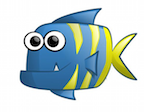
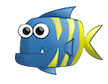
Changes
Need to be able to change the size of fish and turn the user fish into
a sprite so I can deal with collisions.

diff --git a/ScoringTheGame/Graphics/Fish.io_Classes.py b/ScoringTheGame/Graphics/Fish.io_Classes.py
@@ -22,14 +22,15 @@ done = False
 clock = pygame.time.Clock()
 
 pygame.mouse.set_visible(False)
-
-minnow = pygame.image.load("Minnow.png")
+#SmallFish = pygame.sprite.Sprite
+SmallFish = pygame.image.load("SmallFish.png")
 #user = pygame.image.load("SmallFish.png")
 #user.set_colorkey(WHITE)
-minnow.set_colorkey(WHITE)
+SmallFish.set_colorkey(WHITE)
 
 
-
+aPlankton = pygame.image.load("Plankton.png")
+aPlankton.set_colorkey(WHITE)
 
 #background = pygame.image.load("GameBackground.png")
 background = pygame.image.load("SeaBackground.png")
@@ -40,12 +41,10 @@ background = pygame.image.load("SeaBackground.png")
 
 
 def spawnPlankton(Fish):
-    aFish = Fish
-    print len(aFish.list)
-    for item in range(len(aFish.list)):
-        screen.blit(aFish.image, aFish.list[item])
-    if minnow == aFish.list[item]:
-        spawnPlankton(aFish)
+    for item in range(len(Fish.list)):
+        screen.blit(Fish.image, Fish.list[item])
+    if SmallFish == Fish.list[item]:
+        spawnPlankton(Fish)
 
 
 
@@ -85,6 +84,9 @@ while not done:
         if event.type == pygame.QUIT: # If user clicked close
             done = True # Flag that we are done so we exit this loop
 
+        #elif pygame.sprite.collide_rect(SmallFish, Fish):
+            #done = True
+
         elif event.type == pygame.KEYDOWN:
             print("User pressed a key.")
         elif event.type == pygame.KEYUP:
@@ -94,6 +96,7 @@ while not done:
             pygame.mixer.init
             pygame.mixer.music.load('laser5.ogg')
             pygame.mixer.music.play()
+
 
     screen.fill(WHITE)
 
@@ -107,20 +110,21 @@ while not done:
     y = player_position[1]
 
     # Copy image to screen:
-    #screen.blit(minnow, [x-50, y-25])
-    screen.blit(minnow, [x-50, y-25])
+    #screen.blit(SmallFish, [x-50, y-25])
+    screen.blit(SmallFish, [x-50, y-25])
 
 
 
-    #pygame.transform.smoothscale(minnow,(25,25))
+    #pygame.transform.smoothscale(SmallFish,(25,25))
 
-    #spawnPlankton(Fish.plankton)
+    spawnPlankton(Fish.plankton)
 
 
     fishMoveRight(Fish.rightPiranha)
     fishMoveLeft(Fish.leftShark)
     fishMoveLeft(Fish.leftPiranha)
     fishMoveRight(Fish.rightShark)
+
 
 
     pygame.display.flip()

diff --git a/ScoringTheGame/Graphics/Fish.io.py b/ScoringTheGame/Graphics/Fish.io.py
@@ -24,8 +24,8 @@ clock = pygame.time.Clock()
 
 
 
-minnow = pygame.image.load("Minnow.png")
-minnow.set_colorkey(WHITE)
+SmallFish = pygame.image.load("SmallFish.png")
+SmallFish.set_colorkey(WHITE)
 piranha = pygame.image.load("rightPiranha.png")
 
 
@@ -68,20 +68,20 @@ while not done:
     screen.blit(background, [0, 0])
     #pygame.draw.rect(screen, SEACOLOR, [0,0,700,500],500)
     font = pygame.font.SysFont('Arial', 25, True, False)
-    text = font.render("Minnow.io",True,BLACK)
+    text = font.render("SmallFish.io",True,BLACK)
     screen.blit(text, [570, 10])
     player_position = pygame.mouse.get_pos()
     x = player_position[0]
     y = player_position[1]
 
     # Copy image to screen:
-    screen.blit(minnow, [x-50, y-25])
+    screen.blit(SmallFish, [x-50, y-25])
 
 
     """
     piranhas go horizontally across the screen with varying speeds
     """
-    #pygame.transform.smoothscale(minnow,(25,25))
+    #pygame.transform.smoothscale(SmallFish,(25,25))
     for item in range(len(fish_list)):
         piranha_speed = random.randint(5,15)
         screen.blit(piranha, fish_list[item])

diff --git a/ScoringTheGame/Graphics/Fish.py b/ScoringTheGame/Graphics/Fish.py
@@ -16,8 +16,8 @@ class Fish(pygame.sprite.Sprite):
 Plankton_list = []
 for i in range(1):
     i = random
-    x = random.randrange(0,1277)
-    y = random.randrange(0, 717)
+    x = random.randrange(100,1200)
+    y = random.randrange(50, 650)
     Plankton_list.append([x, y])
 
 
@@ -49,16 +49,14 @@ for i in range(3):
     y = random.randrange(0, 717)
     rightShark_list.append([x, y])
 
+WHITE = (255, 255, 255)
+aPlankton = pygame.image.load("Plankton.png")
+aPlankton.set_colorkey(WHITE)
 
-class plankton(Fish):
-    def __init__(self):
-        super(plankton,self).__init__()
-        #plankton = Fish()
-        plankton.position = (random.randrange(0,1277), random.randrange(0, 717))
-        #plankton.range = 1
-        plankton.list = createFishList(1)
-        plankton.image = pygame.image.load("Plankton.png")
-
+plankton = Fish()
+plankton.position = (random.randrange(0,1277), random.randrange(0, 717))
+plankton.list = Plankton_list
+plankton.image = aPlankton
 
 
 #class rightPiranha(Fish):

diff --git a/ScoringTheGame/Tutorials/Animation.py b/ScoringTheGame/Tutorials/Animation.py
@@ -21,7 +21,7 @@ clock = pygame.time.Clock()
 
 
 
-minnow = pygame.image.load("Minnow.png")
+SmallFish = pygame.image.load("SmallFish.png")
 background = pygame.image.load("Background for Fish Game.jpg")
 
 # -------- Main Program Loop -----------
@@ -71,10 +71,10 @@ while not done:
     player_position = pygame.mouse.get_pos()
     x = player_position[0]
     y = player_position[1]
-    minnow.set_colorkey(WHITE)
+    SmallFish.set_colorkey(WHITE)
 
     # Copy image to screen:
-    screen.blit(minnow, [x-100, y-75])
+    screen.blit(SmallFish, [x-100, y-75])
     # --- Go ahead and update the screen with what we've drawn.
 
     pygame.display.flip()

diff --git a/ScoringTheGame/Tutorials/Ch5Tutorial.py b/ScoringTheGame/Tutorials/Ch5Tutorial.py
@@ -21,7 +21,7 @@ clock = pygame.time.Clock()
 
 
 
-minnow = pygame.image.load("Minnow.png")
+SmallFish = pygame.image.load("SmallFish.png")
 background = pygame.image.load("Background for Fish Game.jpg")
 
 # -------- Main Program Loop -----------
@@ -71,10 +71,10 @@ while not done:
     player_position = pygame.mouse.get_pos()
     x = player_position[0]
     y = player_position[1]
-    minnow.set_colorkey(WHITE)
+    SmallFish.set_colorkey(WHITE)
 
     # Copy image to screen:
-    screen.blit(minnow, [x-100, y-75])
+    screen.blit(SmallFish, [x-100, y-75])
     # --- Go ahead and update the screen with what we've drawn.
 
     pygame.display.flip()
